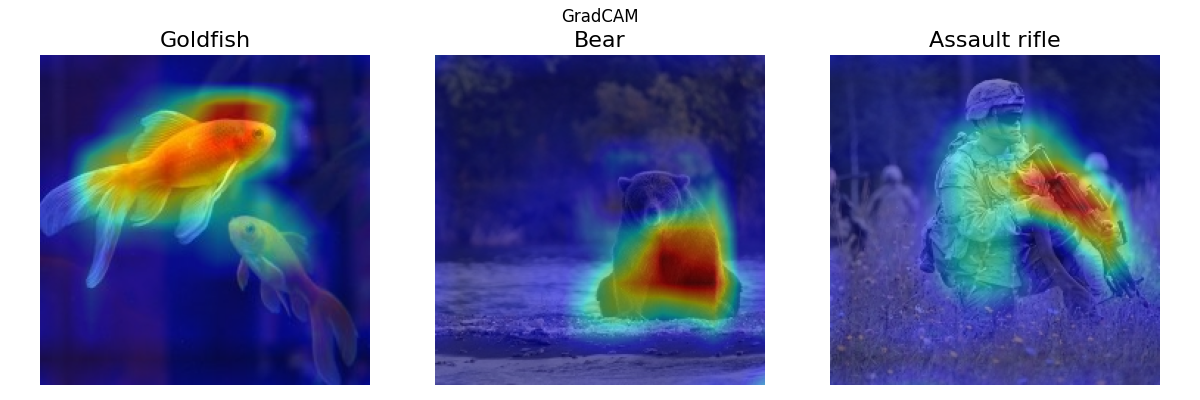
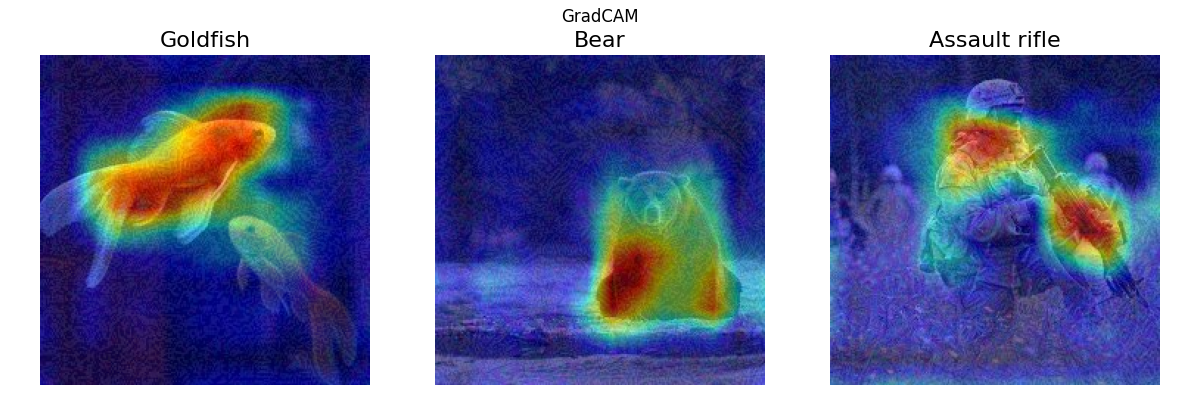
FGSM saliency added

diff --git a/saliency/saliency.py b/saliency/saliency.py
@@ -32,9 +32,9 @@ from keras.applications.vgg16 import preprocess_input
 image_titles = ['Goldfish', 'Bear', 'Assault rifle']
 
 # Load images and Convert them to a Numpy array
-img1 = load_img('saliency/images/input/goldfish.jpg', target_size=(224, 224))
-img2 = load_img('saliency/images/input/bear.jpg', target_size=(224, 224))
-img3 = load_img('saliency/images/input/soldiers.jpg', target_size=(224, 224))
+img1 = load_img('adversarial/images/output/FGSM_MobileNetV2/goldfish.jpg', target_size=(224, 224))
+img2 = load_img('adversarial/images/output/FGSM_MobileNetV2/bear.jpg', target_size=(224, 224))
+img3 = load_img('adversarial/images/output/FGSM_MobileNetV2/soldiers.jpg', target_size=(224, 224))
 images = np.asarray([np.array(img1), np.array(img2), np.array(img3)])
 
 # Preparing input data for VGG16
